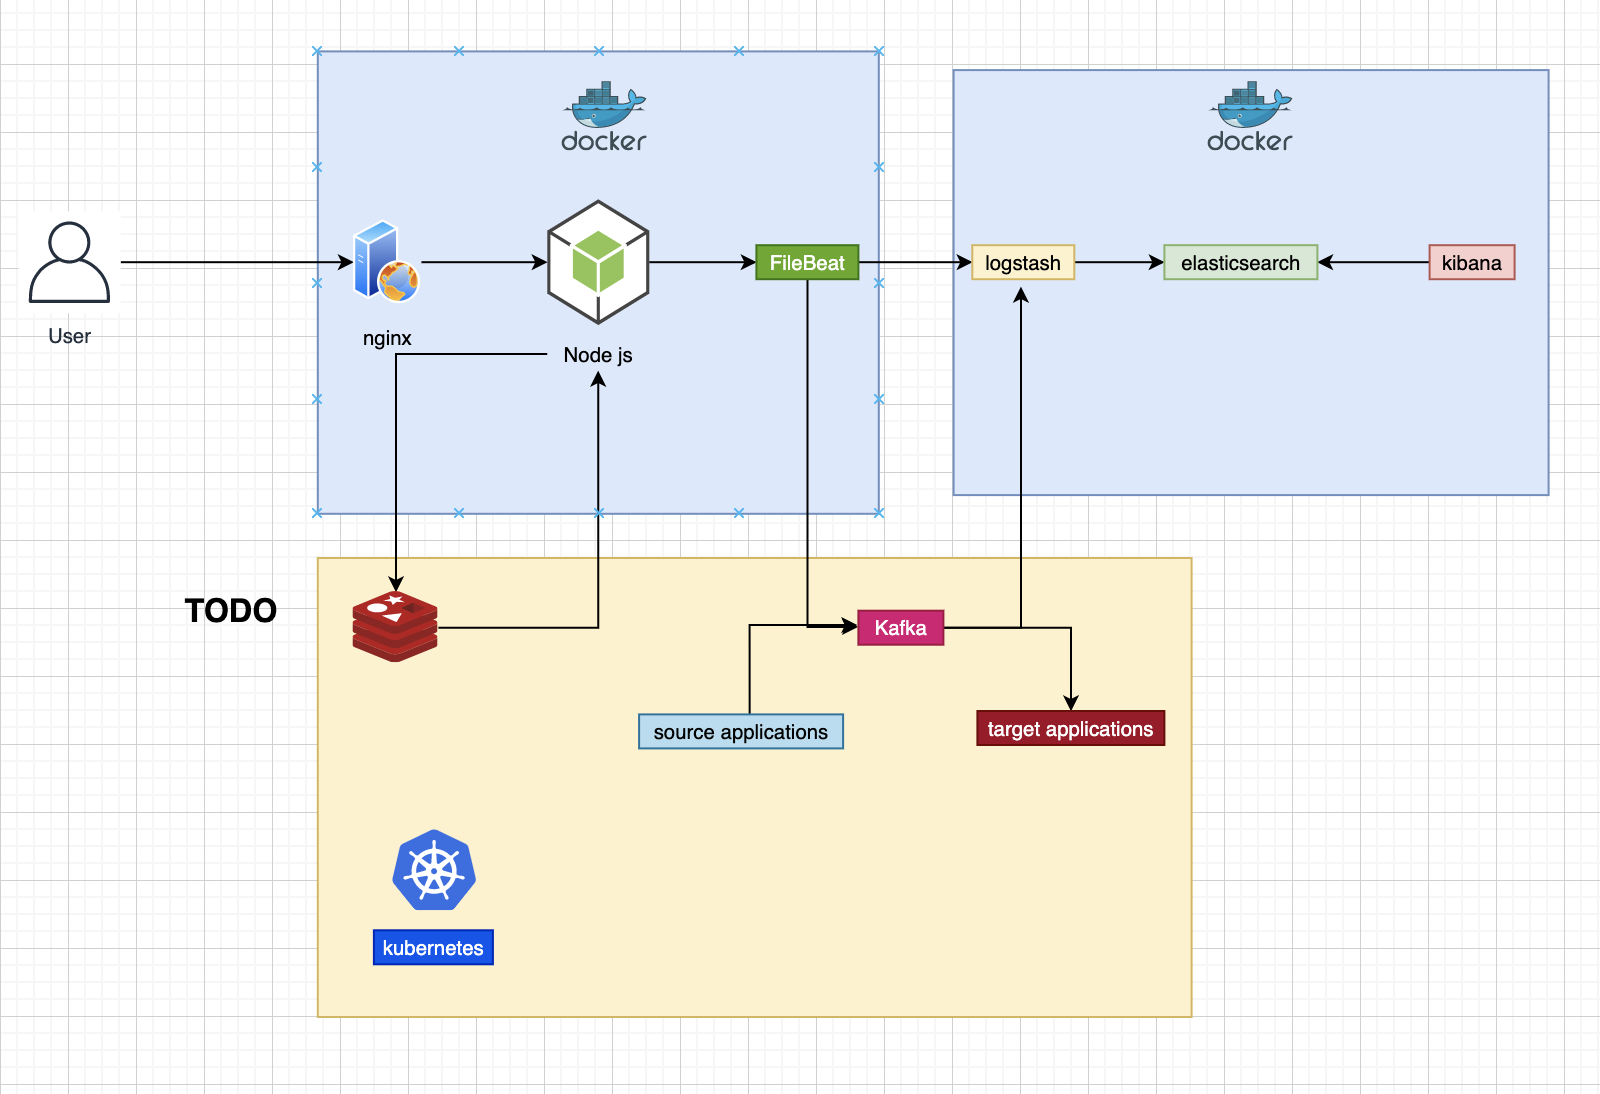
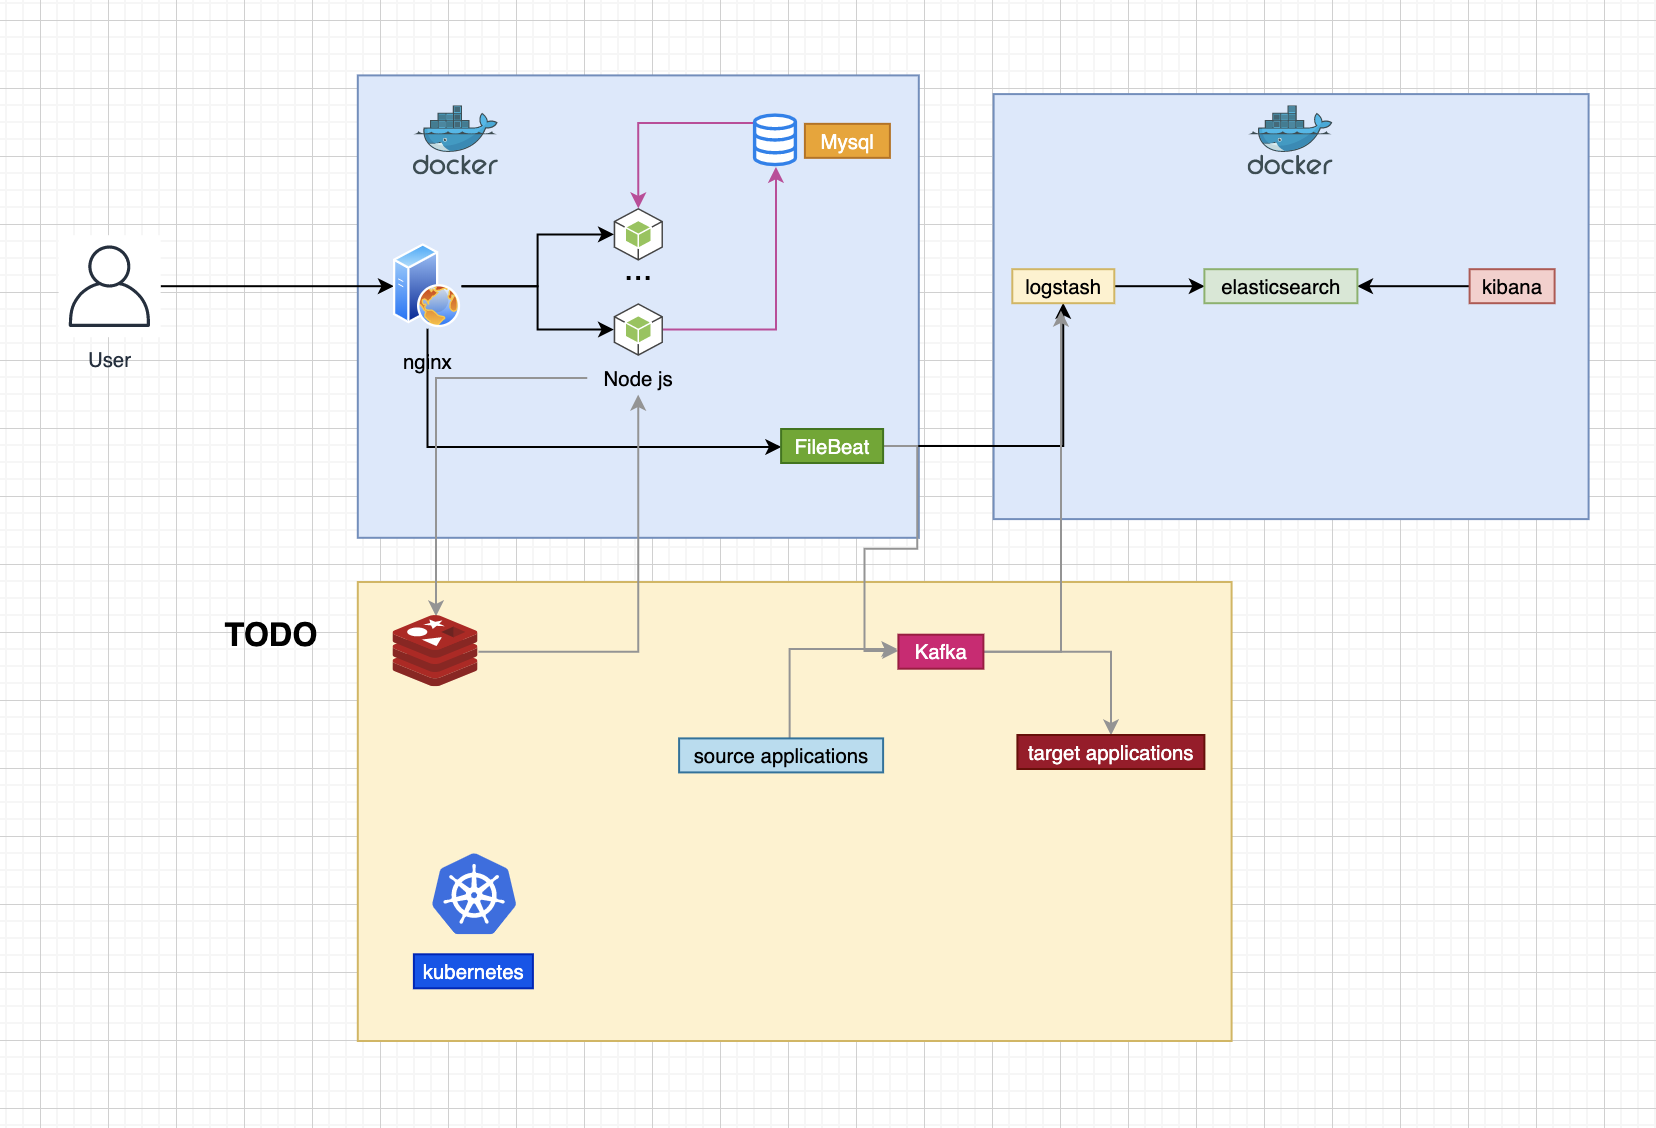
스케일 관련 셋팅, Readme 수정

diff --git a/app/src/app.service.ts b/app/src/app.service.ts
@@ -1,8 +1,10 @@
 import { Injectable } from '@nestjs/common';
 
+const appId = Math.round(Math.random() * 9 * 100000);
+console.log('appId', appId);
 @Injectable()
 export class AppService {
   getHello(): string {
-    return 'Hello World!';
+    return `appId : ${appId} / Hello World!`;
   }
 }

diff --git a/README.md b/README.md
@@ -1,27 +1,28 @@
-## 설명
+# Backend API
 
-- 구현중
+## 설명
 
 ### Flow
 
 ![](docs/backend-flow.png)
 
-- 구현중
+#### Api call
 
-## 샘플 데이터
+1. 유저가 요청을 합니다.
+2. nginx를 통해서 load balancing을 합니다. ( 현재는 layer 7 )
+3. app에 응답을 하게 되고, 필요에 따라 DB와 통신을 하며, 유저에게 데이터를 보냅니다.
 
-```
-# 샘플 데이터 생성
-curl -X POST http://localhost:3000/boards
-```
+#### Log
 
-## API 확인
+1. 유저가 요청을 하면 nginx에 로그가 쌓입니다.
+2. nginx 로그는 filebeat와 volume이 공유되어 있습니다.
+3. 공유된 file을 logstash로 보냅니다.
+4. logstash는 parse, filter, transform 된 로그를 elasticsearch로 보냅니다.
+5. kibana는 elasticsearch로 데이터를 받아와서 보여줍니다.
 
-http://localhost:3000/api
+- nginx, filebeat는 volume을 공유하고 있습니다.
 
-```
-curl -X GET http://localhost:3000/boards?page=1
-```
+---
 
 ## ELK 연동
 
@@ -46,7 +47,44 @@ input {
 
 ```
 
-## TODO
+---
+
+## 테스트
+
+### 샘플 데이터
+
+```
+# 샘플 데이터 생성
+curl -X POST http://localhost/boards
+// 샘플 데이터가 생성되었습니다.
+```
+
+### Scale
+
+```
+# 1. 스케일링
+docker-compose up -d --scale app=10
+
+# 2. nginx 재시작
+docker exec house-nginx nginx -s reload
+
+# 3. 확인
+curl -X GET http://localhost
+// appId : 373682 / Hello World!
+// appId : 457576 / Hello World!
+```
+
+## API 확인
+
+http://localhost/api
+
+```
+curl -X GET http://localhost/boards?page=1
+```
+
+---
+
+## TODO (?)
 
 - CI/CD
 - DDD
